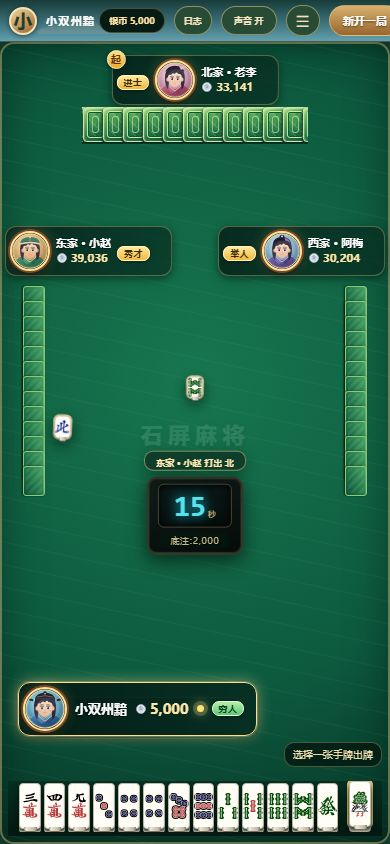
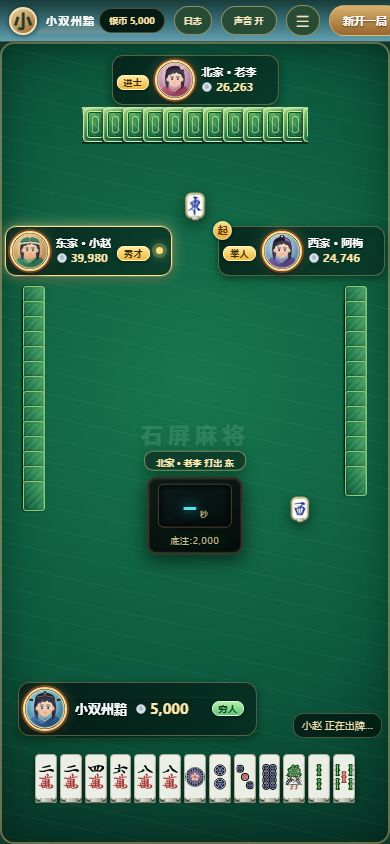
v0.12.2 手牌区撕掉深色底板：14 张牌直接摆在绒面上
- .hand-panel 去背景/描边/阴影，并上移到绒面内沿，不再压在木质边框上
- 顺手补记 README/开发报告只到 v0.12.1，此处仍按 0.12.1 发版，仅样式微调

diff --git a/shiping-mahjong-ai/styles.css b/shiping-mahjong-ai/styles.css
@@ -3334,7 +3334,17 @@ body.table-ready-on .seat .pcard{opacity:.36}
 }
 }
 
-/* ---------- 22.5 竖屏不做 3D：SVG 被拉成竖条后牌墙会变成大绿块 ----------
+/* ---------- 22.5 手牌区：撕掉深色底板，14 张牌直接摆在绒面上（参考图就是这样） ----------
+   「我的手牌 / N 张 / 点击牌面出牌」那行字早就是 display:none，这里再把底板与描边摘掉；
+   同时把整条手牌上移到绒面内沿，别压在木头边框上。 */
+.table-screen .hand-panel{
+  background:none!important;
+  border:0!important;
+  box-shadow:none!important;
+  bottom:calc(8px + 3.4vh)!important;
+}
+
+/* ---------- 22.6 竖屏不做 3D：SVG 被拉成竖条后牌墙会变成大绿块 ----------
    竖屏回落到平面机台（木框 + 绒面渐变），牌位沿用旧的一套。 */
 @media (orientation:portrait){
   body.table-3d .table-frame{background-image:none!important;background-color:#123a2b!important}
